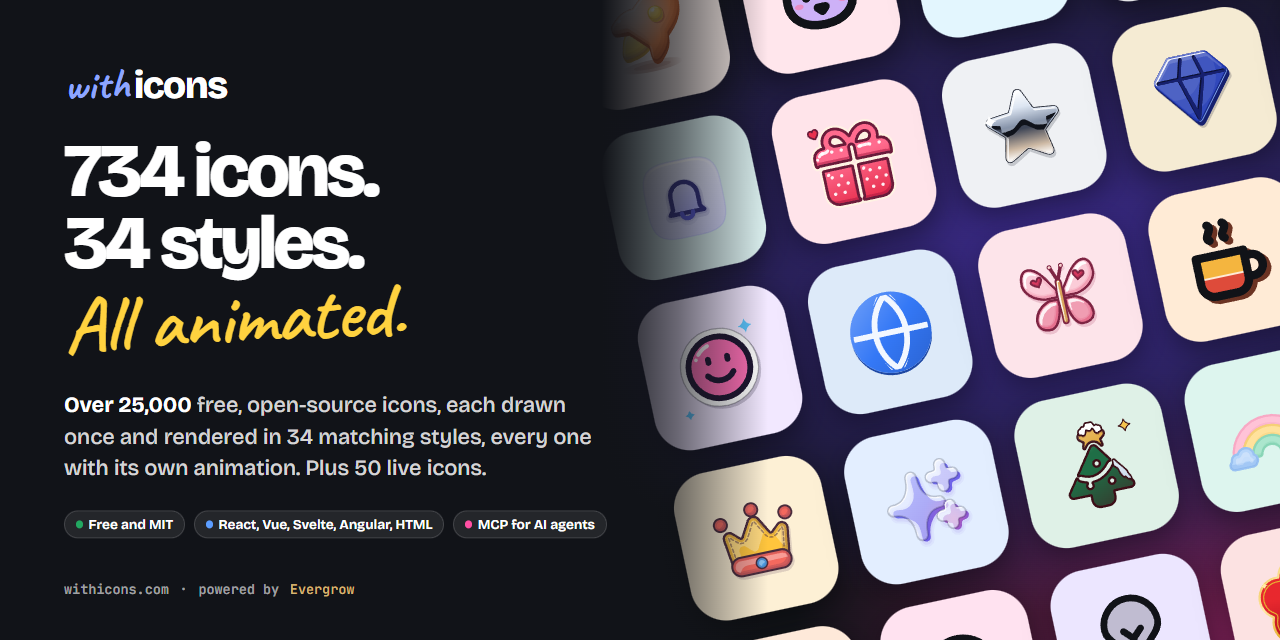
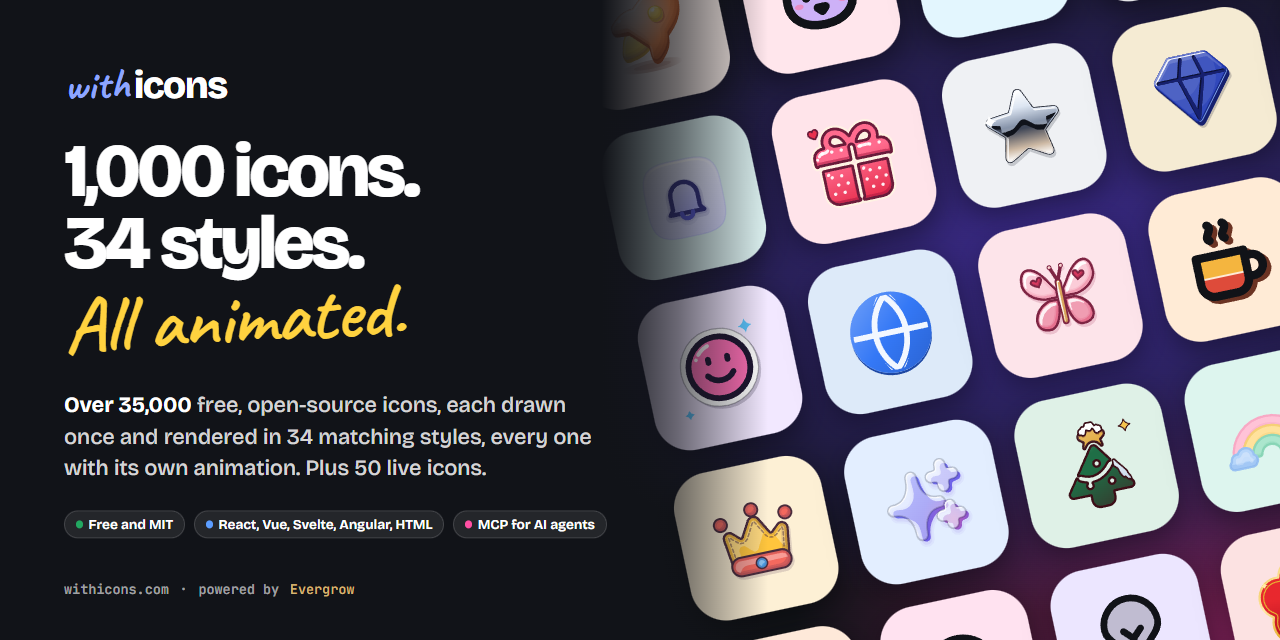
README: style posters, site recordings, Iconify, 0.6.0 numbers
- 34 style posters (one per style, hero icon + twelve more moving with their
  @withicons/motion loops): 1080x1350 PNG + 600x750 looping GIF each, and an
  overview sheet, in site/media/github/posters/
- Six site recordings (home, library + dark, icon page, live icons, loaders):
  2x PNG + GIF each, in site/media/github/shots/
- README: poster section with a collapsible 34-poster gallery, "See it in
  action" section, Iconify note, badge and usage (11 sets), counts updated to
  1,000 icons / over 35,000, v0.6.0 note
- Banner, style sheets, social preview and og image re-rendered for 1,000 icons

diff --git a/README.md b/README.md
@@ -1,16 +1,17 @@
 <div align="center">
 
-<a href="https://withicons.com"><img src="https://withicons.com/media/github/banner.png?v=0.4.0" alt="with icons: 734 icons, 34 styles, all animated. Over 25,000 free, open-source icons." width="100%"></a>
+<a href="https://withicons.com"><img src="https://withicons.com/media/github/banner.png?v=0.6.0" alt="with icons: 1,000 icons, 34 styles, all animated. Over 35,000 free, open-source icons." width="100%"></a>
 
 <h3>Free, open-source icons that can’t sit still.</h3>
 
-**734 icons x 34 styles = 24,956 icons.** Every one animated. Plus 50 live icons in every style: over 25,000 free icons. MIT, no sign-up.<br>
+**1,000 icons x 34 styles = 34,000 icons.** Every one animated. Plus 50 live icons in every style: over 35,000 free icons. MIT, no sign-up.<br>
 For slides, Canva, Figma, websites, apps and AI agents.
 
 [![npm](https://img.shields.io/npm/v/@withicons/react?label=npm&color=2F5BFF&logo=npm)](https://www.npmjs.com/package/@withicons/react)
 [![License: MIT](https://img.shields.io/badge/license-MIT-22A861)](LICENSE)
 [![npm provenance](https://img.shields.io/badge/npm-provenance-7252FF?logo=githubactions&logoColor=white)](https://www.npmjs.com/package/@withicons/react#provenance)
-[![Icons](https://img.shields.io/badge/icons-25%2C000%2B-FF5A36)](https://withicons.com/icons.html)
+[![Icons](https://img.shields.io/badge/icons-35%2C000%2B-FF5A36)](https://withicons.com/icons.html)
+[![Iconify](https://img.shields.io/badge/Iconify-11%20sets-1769AA)](https://icon-sets.iconify.design/?query=withicons)
 [![Web component](https://img.shields.io/badge/web%20component-7%20KB%20gzipped-FF4FA3)](https://withicons.com/developers.html)
 [![MCP](https://img.shields.io/badge/MCP-ready-111318)](https://withicons.com/ai.html)
 
@@ -27,10 +28,11 @@ For slides, Canva, Figma, websites, apps and AI agents.
 
 </div>
 
-> **New in v0.4.0:** 14 new styles (34 in all): soft 3D (`clay`, `soft3d`), clear and metal (`liquid`, `chrome`), product
-> looks (`bento`, `suite`, `dock`, `brutal`) and six holiday styles (`utsav`, `rangoli`, `halloween`, `christmas`, `lunar`,
-> `valentine`); a redrawn `glass` and a duo accent; 234 new icons (734 in all), among them 39 avatars with six skin tones
-> and 95 festival icons. [Full changelog](CHANGELOG.md)
+> **Now on Iconify:** with icons is on [Iconify](https://icon-sets.iconify.design/?query=withicons) as 11 icon sets, so it works
+> in every Iconify tool (`<iconify-icon>`, unplugin-icons, UnoCSS, Tailwind, Figma). [How to use them](#iconify).
+>
+> **New in v0.6.0:** 250 new icons (1,000 in all), 50 animated loaders in every style (`@withicons/loaders`), and about 3,300
+> hand-drawn touch-ups where a generated drawing read badly. [Full changelog](CHANGELOG.md)
 
 ## Why with icons
 
@@ -43,9 +45,56 @@ For slides, Canva, Figma, websites, apps and AI agents.
 - **Free means free.** MIT. Commercial use, no credit needed.
 
 <picture>
-  <source media="(prefers-color-scheme: dark)" srcset="https://withicons.com/media/github/styles-dark.png?v=0.4.0">
-  <img src="https://withicons.com/media/github/styles-light.png?v=0.4.0" alt="The rocket icon in all 34 styles, in six groups: Essentials (line, solid, duo, suite), Product and brand (bento, dock, brutal, bauhaus), 3D and glass (clay, glass, liquid, chrome, soft 3D, luxe, skeuo), Playful (kawaii, plush, sticker, gloss, pastel, pixel, retro), Artistic (sketch, engrave, blueprint, anime, gothic, coquette) and Holidays (utsav, rangoli, halloween, christmas, lunar, valentine)." width="100%">
+  <source media="(prefers-color-scheme: dark)" srcset="https://withicons.com/media/github/styles-dark.png?v=0.6.0">
+  <img src="https://withicons.com/media/github/styles-light.png?v=0.6.0" alt="The rocket icon in all 34 styles, in six groups: Essentials (line, solid, duo, suite), Product and brand (bento, dock, brutal, bauhaus), 3D and glass (clay, glass, liquid, chrome, soft 3D, luxe, skeuo), Playful (kawaii, plush, sticker, gloss, pastel, pixel, retro), Artistic (sketch, engrave, blueprint, anime, gothic, coquette) and Holidays (utsav, rangoli, halloween, christmas, lunar, valentine)." width="100%">
 </picture>
+
+## The 34 styles, one poster each
+
+Every style has its own poster: the style's hero icon and twelve more, all moving with their real animation.
+Each is a still PNG and a looping GIF in [`site/media/github/posters/`](site/media/github/posters), free to share.
+
+<p align="center">
+  <img src="https://withicons.com/media/github/posters/clay.gif" alt="Clay style poster: a sculpted clay rocket and twelve more clay icons, all animated." width="32%">
+  <img src="https://withicons.com/media/github/posters/anime.gif" alt="Anime style poster: a cel-shaded sun and twelve more anime icons, all animated." width="32%">
+  <img src="https://withicons.com/media/github/posters/halloween.gif" alt="Halloween style poster: a jack-o'-lantern and twelve more Halloween icons, all animated." width="32%">
+</p>
+
+<details>
+<summary><b>All 34 animated posters</b> (click a poster for the full-size PNG)</summary>
+<br>
+
+<p align="center"><img src="https://withicons.com/media/github/posters/wall.png" alt="All 34 style posters on one sheet, in site order." width="100%"></p>
+
+<table>
+<tr><td width="25%"><a href="https://withicons.com/media/github/posters/line.png"><img src="https://withicons.com/media/github/posters/line.gif" alt="Line style poster: Clean outlines. The safe choice for websites, apps and slides." width="100%"></a></td><td width="25%"><a href="https://withicons.com/media/github/posters/solid.png"><img src="https://withicons.com/media/github/posters/solid.gif" alt="Solid style poster: Bold, filled shapes that read from across the room." width="100%"></a></td><td width="25%"><a href="https://withicons.com/media/github/posters/duo.png"><img src="https://withicons.com/media/github/posters/duo.gif" alt="Duo style poster: An outline with a soft tint inside and one small accent detail. Friendly and calm." width="100%"></a></td><td width="25%"><a href="https://withicons.com/media/github/posters/suite.png"><img src="https://withicons.com/media/github/posters/suite.gif" alt="Suite style poster: Polished full-colour icons, like the ones in an office or cloud suite." width="100%"></a></td></tr>
+<tr><td width="25%"><a href="https://withicons.com/media/github/posters/bento.png"><img src="https://withicons.com/media/github/posters/bento.gif" alt="Bento style poster: Each icon sits in its own soft tinted tile, like a bento-grid feature card." width="100%"></a></td><td width="25%"><a href="https://withicons.com/media/github/posters/dock.png"><img src="https://withicons.com/media/github/posters/dock.gif" alt="Dock style poster: Glossy rounded app tiles, like the icons in a desktop dock." width="100%"></a></td><td width="25%"><a href="https://withicons.com/media/github/posters/brutal.png"><img src="https://withicons.com/media/github/posters/brutal.gif" alt="Brutal style poster: Thick black outlines, loud flat colour and a hard offset shadow." width="100%"></a></td><td width="25%"><a href="https://withicons.com/media/github/posters/bauhaus.png"><img src="https://withicons.com/media/github/posters/bauhaus.gif" alt="Bauhaus style poster: Circles, squares and triangles in red, yellow and blue. Bold modernist design." width="100%"></a></td></tr>
+<tr><td width="25%"><a href="https://withicons.com/media/github/posters/clay.png"><img src="https://withicons.com/media/github/posters/clay.gif" alt="Clay style poster: Soft, rounded 3D objects that look sculpted from matte clay." width="100%"></a></td><td width="25%"><a href="https://withicons.com/media/github/posters/glass.png"><img src="https://withicons.com/media/github/posters/glass.gif" alt="Glass style poster: Soft, luxurious frosted glass with gentle light and depth. Modern and airy." width="100%"></a></td><td width="25%"><a href="https://withicons.com/media/github/posters/liquid.png"><img src="https://withicons.com/media/github/posters/liquid.gif" alt="Liquid style poster: Clear liquid glass that bends the light, with bright rims and soft reflections." width="100%"></a></td><td width="25%"><a href="https://withicons.com/media/github/posters/chrome.png"><img src="https://withicons.com/media/github/posters/chrome.gif" alt="Chrome style poster: Polished liquid chrome with mirror highlights. Y2K and futuristic." width="100%"></a></td></tr>
+<tr><td width="25%"><a href="https://withicons.com/media/github/posters/soft3d.png"><img src="https://withicons.com/media/github/posters/soft3d.gif" alt="Soft 3D style poster: Soft, studio-lit 3D objects with real depth. Physical things sit at a gentle angle; people look like friendly 3D avatars." width="100%"></a></td><td width="25%"><a href="https://withicons.com/media/github/posters/luxe.png"><img src="https://withicons.com/media/github/posters/luxe.gif" alt="Luxe style poster: Rich, layered 3D with gold trim and soft studio light. Premium." width="100%"></a></td><td width="25%"><a href="https://withicons.com/media/github/posters/skeuo.png"><img src="https://withicons.com/media/github/posters/skeuo.gif" alt="Skeuo style poster: Real materials, bevels and shadows, like objects you could pick up." width="100%"></a></td><td width="25%"><a href="https://withicons.com/media/github/posters/kawaii.png"><img src="https://withicons.com/media/github/posters/kawaii.gif" alt="Kawaii style poster: Chubby, soft and cute, with a tiny smiling face and rosy cheeks." width="100%"></a></td></tr>
+<tr><td width="25%"><a href="https://withicons.com/media/github/posters/plush.png"><img src="https://withicons.com/media/github/posters/plush.gif" alt="Plush style poster: Soft stuffed toys in felt, with stitched seams. Made for kids." width="100%"></a></td><td width="25%"><a href="https://withicons.com/media/github/posters/sticker.png"><img src="https://withicons.com/media/github/posters/sticker.gif" alt="Sticker style poster: Shiny die-cut stickers with a puffy white border and sparkles." width="100%"></a></td><td width="25%"><a href="https://withicons.com/media/github/posters/gloss.png"><img src="https://withicons.com/media/github/posters/gloss.gif" alt="Gloss style poster: Puffy and shiny, like glossy stickers. Playful and fun." width="100%"></a></td><td width="25%"><a href="https://withicons.com/media/github/posters/pastel.png"><img src="https://withicons.com/media/github/posters/pastel.gif" alt="Pastel style poster: Soft, airy pastel colours with gentle shading. Calm and dreamy." width="100%"></a></td></tr>
+<tr><td width="25%"><a href="https://withicons.com/media/github/posters/pixel.png"><img src="https://withicons.com/media/github/posters/pixel.gif" alt="Pixel style poster: Crisp pixel art, like an old video game." width="100%"></a></td><td width="25%"><a href="https://withicons.com/media/github/posters/retro.png"><img src="https://withicons.com/media/github/posters/retro.gif" alt="Retro style poster: Chunky 70s shapes with warm sunset stripes." width="100%"></a></td><td width="25%"><a href="https://withicons.com/media/github/posters/sketch.png"><img src="https://withicons.com/media/github/posters/sketch.gif" alt="Sketch style poster: Hand-drawn marker lines, like a whiteboard doodle." width="100%"></a></td><td width="25%"><a href="https://withicons.com/media/github/posters/engrave.png"><img src="https://withicons.com/media/github/posters/engrave.gif" alt="Engrave style poster: Fine engraved lines, like a banknote or an old book." width="100%"></a></td></tr>
+<tr><td width="25%"><a href="https://withicons.com/media/github/posters/blueprint.png"><img src="https://withicons.com/media/github/posters/blueprint.gif" alt="Blueprint style poster: Technical drawings with guide lines and measurements." width="100%"></a></td><td width="25%"><a href="https://withicons.com/media/github/posters/anime.png"><img src="https://withicons.com/media/github/posters/anime.gif" alt="Anime style poster: Anime cel shading: bold ink, bright colour, hard shadows and starry highlights." width="100%"></a></td><td width="25%"><a href="https://withicons.com/media/github/posters/gothic.png"><img src="https://withicons.com/media/github/posters/gothic.gif" alt="Gothic style poster: Old-world Gothic detail: pointed arches, carved stone and jewel-toned stained glass." width="100%"></a></td><td width="25%"><a href="https://withicons.com/media/github/posters/coquette.png"><img src="https://withicons.com/media/github/posters/coquette.gif" alt="Coquette style poster: Romantic and feminine: blush pink, satin bows, pearls and lace." width="100%"></a></td></tr>
+<tr><td width="25%"><a href="https://withicons.com/media/github/posters/utsav.png"><img src="https://withicons.com/media/github/posters/utsav.gif" alt="Utsav style poster: Warm marigold and saffron shapes with a plum outline, a fine gold inner line and rangoli dot-work." width="100%"></a></td><td width="25%"><a href="https://withicons.com/media/github/posters/rangoli.png"><img src="https://withicons.com/media/github/posters/rangoli.gif" alt="Rangoli style poster: Clean objects in a warm festive glow, each with one Indian festival motif: petals, a lotus, a toran or a diya." width="100%"></a></td><td width="25%"><a href="https://withicons.com/media/github/posters/halloween.png"><img src="https://withicons.com/media/github/posters/halloween.gif" alt="Halloween style poster: Spooky-cute pumpkin, witch-purple and midnight shapes with candle-lit carvings, slime drips and a tiny bat." width="100%"></a></td><td width="25%"><a href="https://withicons.com/media/github/posters/christmas.png"><img src="https://withicons.com/media/github/posters/christmas.gif" alt="Christmas style poster: Cosy cranberry, pine and gold shapes with a snow cap on every top edge, candy-cane stripes and a sprig of holly." width="100%"></a></td></tr>
+<tr><td width="25%"><a href="https://withicons.com/media/github/posters/lunar.png"><img src="https://withicons.com/media/github/posters/lunar.gif" alt="Lunar New Year style poster: Lucky red lacquer with a gold-foil rim, jade details, paper-cut cloud scrolls, silk tassels and plum blossoms." width="100%"></a></td><td width="25%"><a href="https://withicons.com/media/github/posters/valentine.png"><img src="https://withicons.com/media/github/posters/valentine.gif" alt="Valentine style poster: Cute pink-to-red cartoon shapes with a warm berry outline, polka dots, tiny blushing faces and floating hearts." width="100%"></a></td><td width="25%"></td><td width="25%"></td></tr>
+</table>
+</details>
+
+## See it in action
+
+<a href="https://withicons.com/media/github/shots/home.png"><img src="https://withicons.com/media/github/shots/home.gif" alt="with icons home page: Free icons for your website, slides and apps, with a search box and a card showing one icon in a different style each time." width="100%"></a>
+
+<table>
+<tr>
+<td width="50%"><a href="https://withicons.com/media/github/shots/library.png"><picture><source media="(prefers-color-scheme: dark)" srcset="https://withicons.com/media/github/shots/library-dark.gif"><img src="https://withicons.com/media/github/shots/library.gif" alt="The with icons library: searching for heart and switching the results through Solid, Duo, Clay, Glass, Suite, Soft 3D and Kawaii." width="100%"></picture></a><br><sub><b><a href="https://withicons.com/icons.html">Library</a></b>: search by meaning, switch every result to any style.</sub></td>
+<td width="50%"><a href="https://withicons.com/media/github/shots/icon-page.png"><img src="https://withicons.com/media/github/shots/icon-page.gif" alt="The Rocket icon page switching between Line, Solid, Duo, Clay, Glass, Suite, Soft 3D and Kawaii." width="100%"></a><br><sub><b><a href="https://withicons.com/icons/rocket.html">Icon pages</a></b>: every style, its animation, downloads and code.</sub></td>
+</tr>
+<tr>
+<td width="50%"><a href="https://withicons.com/media/github/shots/live.png"><img src="https://withicons.com/media/github/shots/live.gif" alt="Live icons: calendar, battery, bell, weather, clock and progress-ring icons that show your own numbers." width="100%"></a><br><sub><b><a href="https://withicons.com/live.html">Live icons</a></b>: dates, times, counts and levels, in every style.</sub></td>
+<td width="50%"><a href="https://withicons.com/media/github/shots/loaders.png"><img src="https://withicons.com/media/github/shots/loaders.gif" alt="Animated loaders in many styles, including AI thinking, spinner, orbit, diya, ghost, hearts, Christmas tree and lantern." width="100%"></a><br><sub><b><a href="https://withicons.com/loaders.html">Loader Studio</a></b>: 50 animated loaders, drawn in every style.</sub></td>
+</tr>
+</table>
+
+Click any recording for a full-size screenshot.
 
 ## Quick start
 
@@ -138,6 +187,27 @@ npm i @withicons/solid     # import { Home } from '@withicons/solid'
 ```
 
 The loader (about 6 KB gzipped) links just the CSS of the icons on the page. Zero JavaScript: link one stylesheet per style, such as `with-line.css`.
+</details>
+
+<details>
+<summary><b>Iconify</b> (<code>iconify-icon</code>, unplugin-icons, UnoCSS, Tailwind, Figma)</summary>
+
+<a id="iconify"></a>with icons is on [Iconify](https://icon-sets.iconify.design/?query=withicons) as 11 icon sets, 15,000 icons in all.
+`withicons` holds six styles as suffixes (`rocket`, `rocket-solid`, `rocket-duo`, `rocket-blueprint`, `rocket-sketch`,
+`rocket-engrave`); each of the other ten sets is one style: `withicons-suite`, `withicons-skeuo`, `withicons-sticker`,
+`withicons-pastel`, `withicons-plush`, `withicons-anime`, `withicons-gothic`, `withicons-bauhaus`, `withicons-halloween`
+and `withicons-christmas`.
+
+```html
+<script src="https://code.iconify.design/iconify-icon/2.3.0/iconify-icon.min.js"></script>
+<iconify-icon icon="withicons:rocket"></iconify-icon>
+<iconify-icon icon="withicons:rocket-solid"></iconify-icon>
+<iconify-icon icon="withicons-anime:rocket"></iconify-icon>
+```
+
+With unplugin-icons, `import Rocket from '~icons/withicons-anime/rocket'`; with UnoCSS or Tailwind (`@iconify/tailwind4`),
+`class="i-withicons-rocket"` or `class="icon-[withicons--rocket]"`. All 34 styles and the animations are in the
+`@withicons/*` packages above.
 </details>
 
 <details>
@@ -259,7 +329,7 @@ or package, with pure CSS. Every icon has a tuned continuous loop and hover effe
 ```
 
 `motion.css` (the presets) is about 10 KB gzipped and each icon's own moves are a 0.3 KB file; in a bundled app,
-`import '@withicons/motion/icons.css'` has all 734. With `<with-icon motion="loop">` the element
+`import '@withicons/motion/icons.css'` has all 1,000. With `<with-icon motion="loop">` the element
 links each icon's file for you. `prefers-reduced-motion` switches everything off. Agents get exact code from the MCP tool `animate_icon` or
 `npx withicons animate bell --trigger hover --format react`. Spec: [`forge/MOTION.md`](forge/MOTION.md).
 
